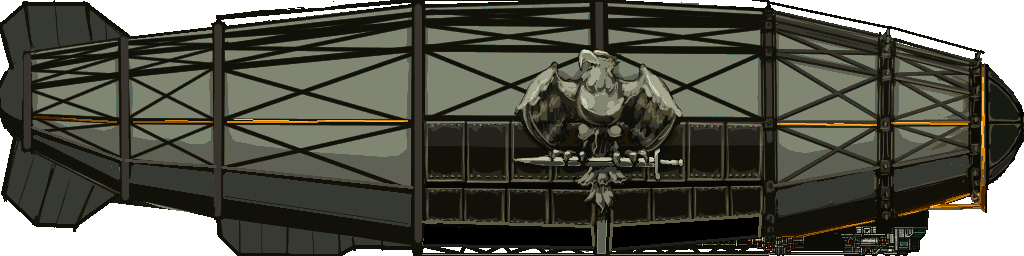
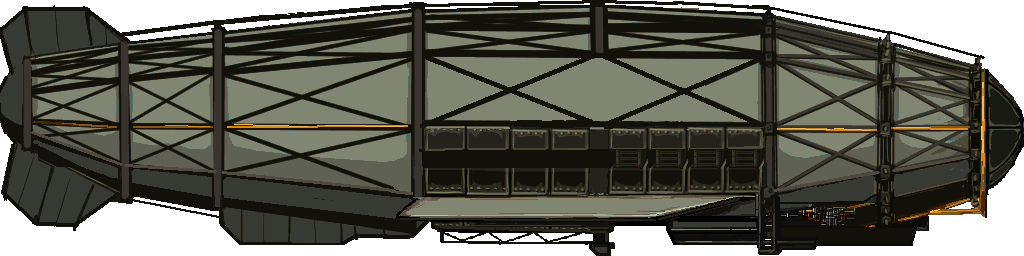
Zeppelin stuff

diff --git a/content/Entities/Structures/Mechanisms/Zeppelin/Zeppelin.cs b/content/Entities/Structures/Mechanisms/Zeppelin/Zeppelin.cs
@@ -16,23 +16,99 @@
 		{
 			None = 0u,
 
+			Control_Auto = 1u << 1,
+			//Control_Auto = 1u << 2,
+
 			[Asset.Ignore] Sync_Pending = 1u << 31
+		}
+
+		[Flags]
+		public enum CombatFlags: uint
+		{
+			None = 0u,
+
+			Point_Defense = 1u << 0,
+			Close_Range = 1u << 1,
+			Artillery = 1u << 2,
+			Bombard = 1u << 3,
+			Missile = 1u << 4,
+
+			Ignore_Collateral_Damage = 1u << 16,
+
+
 		}
 
 		[IComponent.Data(Net.SendType.Unreliable, IComponent.Scope.Region | IComponent.Scope.Global)]
 		public partial struct Data(): IComponent
 		{
 			public float unused_00;
-			public float unused_01;
-			public float unused_02;
+			public float altitude_preferred;
+			public float throttle;
 
 			public Zeppelin.Flags flags;
+			public Zeppelin.CombatFlags combat_flags;
+			//public Zeppelin.CombatFlags combat_flags;
 
 			public Vec2f speed_step = new(1.00f, 0.25f);
 			public Vec2f speed_max = new(10, 2);
 
+			[Editor.Picker.Position(true)] public Vec2f offset_bottom;
+			[Editor.Picker.Position(true)] public Vec2f offset_bay;
+			[Editor.Picker.Position(true)] public Vec2f offset_cabin;
+			[Editor.Picker.Position(true)] public Vec2f offset_tail;
+
+			[Asset.Ignore] public Entity ent_target_dock;
+			[Asset.Ignore] public Entity ent_target_attack;
+			[Asset.Ignore, Editor.Picker.Position(false)] public Vec2f pos_move;
+			[Asset.Ignore, Editor.Picker.Position(false)] public Vec2f pos_defend;
+			[Asset.Ignore, Editor.Picker.Position(false)] public Vec2f pos_aim;
+			[Asset.Ignore, Editor.Picker.Position(false)] public Vec2f pos_skyhook;
+
 			//[Asset.Ignore] public Vec2f vel_current;
 			[Asset.Ignore] public Vec2f vel_target;
+		}
+
+		public struct DEV_SendRequestRPC: Net.IRPC<Zeppelin.Data>
+		{
+			public Entity ent_target;
+			public Vec2f pos_target;
+
+#if SERVER
+			public void Invoke(Net.IRPC.Context rpc, ref Zeppelin.Data data)
+			{
+			}
+#endif
+		}
+
+		public struct DEV_DockRPC: Net.IRPC<Zeppelin.Data>
+		{
+			public Entity ent_dock;
+#if SERVER
+			public void Invoke(Net.IRPC.Context rpc, ref Zeppelin.Data data)
+			{
+				ref var region_common = ref rpc.GetRegionCommon();
+				Assert.Alive(this.ent_dock);
+
+				ref var transform_dock = ref this.ent_dock.GetTransform();
+				Assert.IsNotNull(ref transform_dock);
+
+				ref var transform = ref rpc.record.GetTransform();
+				Assert.IsNotNull(ref transform);
+
+				var pos_dock = transform_dock.position;
+				App.WriteValue(pos_dock);
+
+				var pos_air = pos_dock.WithY(0);
+				var pos_move = new Vec2f(pos_dock.X, -data.unused_00);
+
+				region_common.DrawDebugLine(pos_air, pos_dock, color: Color32BGRA.Green, thickness: 4);
+				region_common.DrawDebugLine(transform.position, pos_dock, color: Color32BGRA.Green, thickness: 4);
+
+				data.pos_aim = pos_dock;
+				data.pos_move = pos_move;
+				data.Sync(rpc.record);
+			}
+#endif
 		}
 
 #if CLIENT
@@ -72,10 +148,52 @@
 		}
 #endif
 
+		[ISystem.Update.B(ISystem.Mode.Single, ISystem.Scope.Region)]
+		public static void OnUpdate(ISystem.Info info, ref Region.Data region, Entity entity,
+		[Source.Owned] ref Zeppelin.Data zeppelin, [Source.Owned] ref Control.Data control,
+		[Source.Owned] ref Transform.Data transform, [Source.Owned] ref Body.Data body,
+		[Source.Owned] in Faction.Data faction)
+		{
+#if SERVER
+			region.DrawDebugDir(a: transform.position, dir: Vec2f.Down * zeppelin.unused_00, color: Color32BGRA.Magenta);
+
+			if (zeppelin.flags.HasAny(Flags.Control_Auto))
+			{
+				var pos_aim = zeppelin.pos_aim;
+				if (pos_aim)
+				{
+					control.mouse.position = pos_aim;
+				}
+
+				var pos_target = zeppelin.pos_move;
+				if (pos_target)
+				{
+					var pos_current = transform.position;
+					var delta = pos_target - pos_current;
+
+					var threshold = 0.10f;
+					var vel = zeppelin.vel_target * 10; // * 50;
+														//vel.x *= zeppelin.vel_target.x.Sign();
+
+					//Maths.ShouldDecelerate()
+
+					ref var kb = ref control.keyboard;
+					kb.SetKeyPressed(Keyboard.Key.MoveRight, (delta.x - vel.x) > threshold);
+					kb.SetKeyPressed(Keyboard.Key.MoveLeft, (delta.x - vel.x) < threshold);
+					kb.SetKeyPressed(Keyboard.Key.MoveDown, (delta.y - vel.y) > threshold);
+					kb.SetKeyPressed(Keyboard.Key.MoveUp, (delta.y - vel.y) < threshold);
+
+
+				}
+			}
+			//Maths.CalculateStoppingDistance
+#endif
+		}
+
 		// TODO: this could be entirely serverside actually, since the body's velocity gets automatically synced by the physics component anyway
 		[Shitcode]
 		[ISystem.Update.C(ISystem.Mode.Single, ISystem.Scope.Region)]
-		public static void OnUpdate(ISystem.Info info, ref Region.Data region, Entity entity,
+		public static void OnUpdate_Control(ISystem.Info info, ref Region.Data region, Entity entity,
 		[Source.Owned] ref Zeppelin.Data zeppelin, [Source.Owned] ref Control.Data control,
 		[Source.Owned] ref Transform.Data transform, [Source.Owned] ref Body.Data body)
 		{
